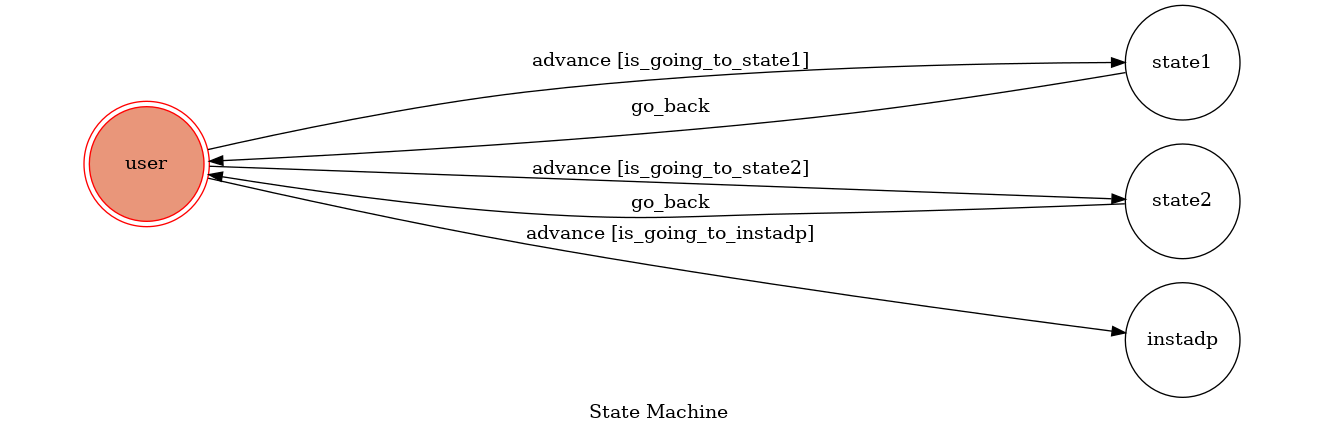
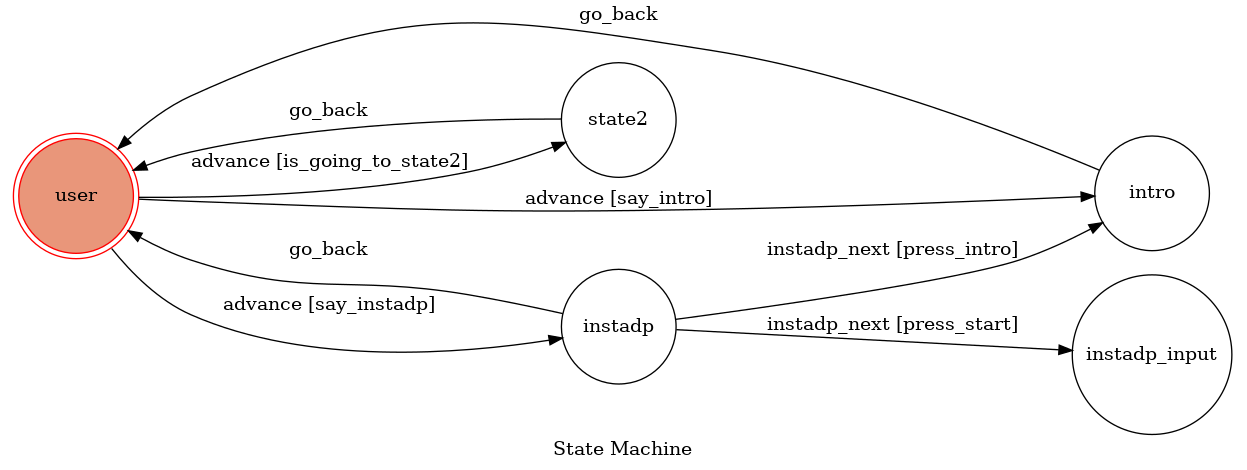
add insatdp staate

diff --git a/messengerbot/igbot/views.py b/messengerbot/igbot/views.py
@@ -22,26 +22,39 @@ machine = TocMachine(
         'user',
         'intro',
         'state2',
-        'instadp'
+        'instadp',
+        'instadp_input'
     ],
     transitions=[
         {
             'trigger': 'advance',
             'source': 'user',
             'dest': 'intro',
-            'conditions': 'is_going_to_intro'
+            'conditions': 'say_intro'
         },
         {
             'trigger': 'advance',
             'source': 'user',
             'dest': 'instadp',
-            'conditions': 'is_going_to_instadp'
+            'conditions': 'say_instadp'
         },
         {
             'trigger': 'advance',
             'source': 'user',
             'dest': 'state2',
             'conditions': 'is_going_to_state2'
+        },
+        {
+            'trigger': 'instadp_next',
+            'source': 'instadp',
+            'dest': 'instadp_input',
+            'conditions': 'press_start'
+        },
+        {
+            'trigger': 'instadp_next',
+            'source': 'instadp',
+            'dest': 'intro',
+            'conditions': 'press_intro'
         },
         {
             'trigger': 'go_back',
@@ -79,7 +92,7 @@ def handleTrigger(state, send_id, text):
 # Create your views here.
 def show_fsm(self):
     machine.get_graph().draw('fsm.png', prog='dot', format='png')
-    return
+    return HttpResponse()
 
 class IgBotView(generic.View):
     # To callback Webhook, the only GET request that webhook sent to here 

diff --git a/messengerbot/igbot/fsm.py b/messengerbot/igbot/fsm.py
@@ -11,13 +11,13 @@ class TocMachine(GraphMachine):
         )
 
     # advance[]
-    def is_going_to_instadp(self, sender_id, text):
+    def say_instadp(self, sender_id, text):
         print("Testing Instadp")
         # return False
         return text == "instadp"
 
 
-    def is_going_to_intro(self, sender_id, text):
+    def say_intro(self, sender_id, text):
         print("Testing State 1")
         # return False
         return text == "go to intro"
@@ -53,5 +53,4 @@ class TocMachine(GraphMachine):
     def on_enter_instadp(self, sender_id, text):
         api = MessageAPI(sender_id)
         api.quickreply_message(messages['instadp_intro'], messages['instadp_intro_quickreply'])
-        print(self.state)
-        self.go_back()
+        # self.go_back()
